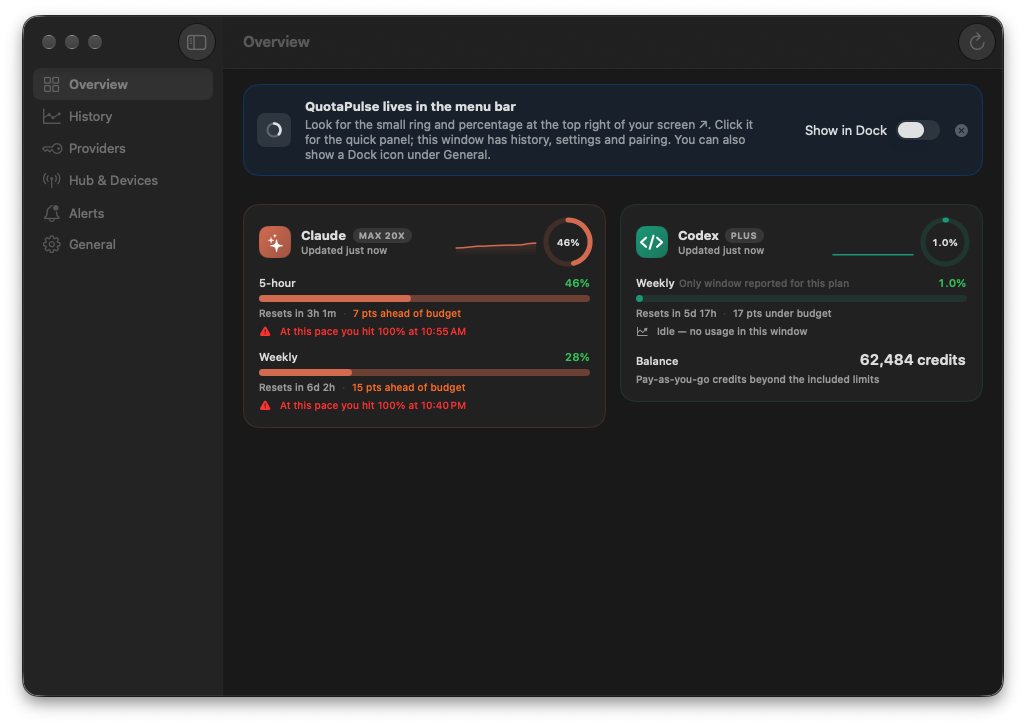
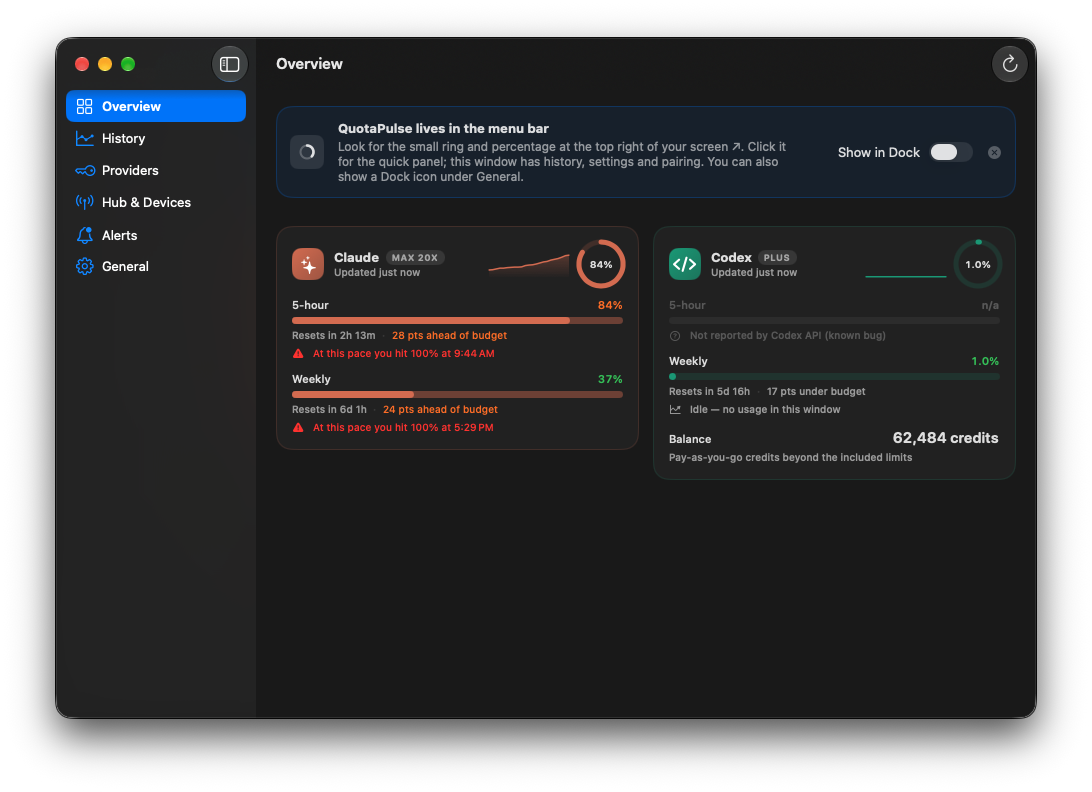
feat(codex): keep missing 5-hour window as .notReported placeholder (Plus/Team) or .notApplicable (Pro); forecasts only on reported windows

Changed region(s): [[0.0, 0.0, 0.9981, 1.0], [0.2495, 0.1212, 0.7485, 0.2424]]

diff --git a/QuotaCore/Sources/QuotaCore/Models/Models.swift b/QuotaCore/Sources/QuotaCore/Models/Models.swift
@@ -95,6 +95,16 @@ public enum ResetSemantics: String, Codable, Sendable, Hashable {
     case fixedCadence
 }
 
+/// Whether the provider actually returned numbers for this window.
+public enum WindowAvailability: String, Codable, Sendable, Hashable {
+    case reported
+    /// The API is known to omit this window right now (e.g. Codex's `secondary_window: null` bug on
+    /// Plus/Team plans); the row stays as a placeholder so the layout doesn't change when it comes back.
+    case notReported
+    /// The plan simply doesn't have this window (Codex Pro has no 5-hour window); hidden in every UI.
+    case notApplicable
+}
+
 /// What a window is doing right now.
 public enum WindowPhase: Sendable, Hashable {
     /// Counting down to `resetsAt` (already rolled forward for fixed-cadence windows).
@@ -117,9 +127,10 @@ public struct UsageWindow: Codable, Sendable, Identifiable, Hashable {
     /// Optional scoping note ("Opus", "Sonnet", "GPT-5.3 Spark"…).
     public var note: String?
     public var resetSemantics: ResetSemantics
+    public var availability: WindowAvailability
 
     public init(id: String, title: String, utilization: Double, resetsAt: Date?, duration: TimeInterval?, note: String? = nil,
-                resetSemantics: ResetSemantics = .fixedCadence) {
+                resetSemantics: ResetSemantics = .fixedCadence, availability: WindowAvailability = .reported) {
         self.id = id
         self.title = title
         self.utilization = min(100, max(0, utilization))
@@ -127,9 +138,12 @@ public struct UsageWindow: Codable, Sendable, Identifiable, Hashable {
         self.duration = duration
         self.note = note
         self.resetSemantics = resetSemantics
+        self.availability = availability
     }
 
-    enum CodingKeys: String, CodingKey { case id, title, utilization, resetsAt, duration, note, resetSemantics }
+    public var isReported: Bool { availability == .reported }
+
+    enum CodingKeys: String, CodingKey { case id, title, utilization, resetsAt, duration, note, resetSemantics, availability }
 
     public init(from decoder: Decoder) throws {
         let c = try decoder.container(keyedBy: CodingKeys.self)
@@ -140,6 +154,7 @@ public struct UsageWindow: Codable, Sendable, Identifiable, Hashable {
         duration = try c.decodeIfPresent(TimeInterval.self, forKey: .duration)
         note = try c.decodeIfPresent(String.self, forKey: .note)
         resetSemantics = try c.decodeIfPresent(ResetSemantics.self, forKey: .resetSemantics) ?? .fixedCadence
+        availability = try c.decodeIfPresent(WindowAvailability.self, forKey: .availability) ?? .reported
     }
 
     public var remaining: Double { max(0, 100 - utilization) }
@@ -323,8 +338,14 @@ public struct ProviderSnapshot: Codable, Sendable, Identifiable, Hashable {
     /// The window that is closest to running out (highest utilization), used for the menu bar label.
     public var primaryWindow: UsageWindow? {
         let now = Date()
-        return windows.max(by: { $0.currentUtilization(now: now) < $1.currentUtilization(now: now) })
+        return reportedWindows.max(by: { $0.currentUtilization(now: now) < $1.currentUtilization(now: now) })
     }
+
+    /// Windows that carry real numbers (placeholders excluded).
+    public var reportedWindows: [UsageWindow] { windows.filter(\.isReported) }
+
+    /// Windows the UI should draw: real ones plus `.notReported` placeholders, never `.notApplicable`.
+    public var displayWindows: [UsageWindow] { windows.filter { $0.availability != .notApplicable } }
 
     /// Head-line percentage: highest window utilization, or balance-derived "pressure" (nil when unknown).
     public var headlinePercent: Double? {
@@ -362,7 +383,7 @@ public struct QuotaSnapshot: Codable, Sendable, Hashable {
         var best: (ProviderSnapshot, UsageWindow)?
         let now = Date()
         for p in providers where p.status.isOK {
-            for w in p.windows {
+            for w in p.reportedWindows {
                 if best == nil || w.currentUtilization(now: now) > best!.1.currentUtilization(now: now) { best = (p, w) }
             }
         }

diff --git a/QuotaUI/Sources/QuotaUI/WidgetViews.swift b/QuotaUI/Sources/QuotaUI/WidgetViews.swift
@@ -108,13 +108,19 @@ public struct WidgetMediumView: View {
                                 Text(String(localized: "~\(Int(d.rounded()))d", bundle: .module)).font(.caption2).foregroundStyle(.secondary)
                             }
                         } else {
-                            ForEach(p.windows.prefix(2)) { w in
+                            ForEach(p.displayWindows.prefix(2)) { w in
                                 VStack(alignment: .leading, spacing: 2) {
-                                    UsageBar(percent: w.currentUtilization(), color: p.id.color, height: 5)
+                                    if w.isReported {
+                                        UsageBar(percent: w.currentUtilization(), color: p.id.color, height: 5)
+                                    } else {
+                                        Capsule().fill(.quaternary.opacity(0.5)).frame(height: 5)
+                                    }
                                     HStack {
                                         Text(w.title).font(.system(size: 9)).foregroundStyle(.secondary).lineLimit(1)
                                         Spacer(minLength: 2)
-                                        Text(QuotaFormat.percent(w.currentUtilization())).font(.system(size: 9, weight: .semibold).monospacedDigit())
+                                        Text(w.isReported ? QuotaFormat.percent(w.currentUtilization()) : Present.resetShort(w))
+                                            .font(.system(size: 9, weight: .semibold).monospacedDigit())
+                                            .foregroundStyle(w.isReported ? .primary : .tertiary)
                                     }
                                 }
                             }
@@ -172,7 +178,7 @@ public struct WidgetLargeView: View {
                             if let s = sparklines[p.id], s.count >= 2 { Sparkline(values: s, color: p.id.color).frame(width: 70, height: 18) }
                             StatusBadge(p.status)
                         }
-                        ForEach(p.windows.prefix(2)) { w in
+                        ForEach(p.displayWindows.prefix(2)) { w in
                             WindowRow(window: w, forecast: p.forecasts[w.id], color: p.id.color, compact: true)
                         }
                         if let b = p.balance, p.windows.isEmpty {

diff --git a/QuotaUI/Sources/QuotaUI/Components.swift b/QuotaUI/Sources/QuotaUI/Components.swift
@@ -200,9 +200,31 @@ public struct WindowRow: View {
     }
 
     public var body: some View {
+        switch window.availability {
+        case .reported: reportedBody
+        case .notReported: placeholderBody
+        case .notApplicable: EmptyView()
+        }
+    }
+
+    /// Grey placeholder row for a window the API currently omits (keeps the card's shape).
+    private var placeholderBody: some View {
+        VStack(alignment: .leading, spacing: compact ? 3 : 5) {
+            HStack(alignment: .firstTextBaseline, spacing: 4) {
+                Text(window.title).font(compact ? .caption : .subheadline).fontWeight(.medium).foregroundStyle(.tertiary)
+                Spacer(minLength: 4)
+                Text(L("n/a")).font(.system(compact ? .caption : .subheadline, design: .rounded).weight(.semibold)).foregroundStyle(.tertiary)
+            }
+            Capsule().fill(.quaternary.opacity(0.5)).frame(height: compact ? 5 : 7)
+            Label(Present.resetText(window, now: now), systemImage: "questionmark.circle")
+                .font(.caption2).foregroundStyle(.tertiary).lineLimit(1)
+        }
+    }
+
+    private var reportedBody: some View {
         let used = window.currentUtilization(now: now)
         let fresh: Bool = { if case .awaitingFirstUse = window.phase(now: now) { return true } else { return false } }()
-        VStack(alignment: .leading, spacing: compact ? 3 : 5) {
+        return VStack(alignment: .leading, spacing: compact ? 3 : 5) {
             HStack(alignment: .firstTextBaseline, spacing: 4) {
                 Text(window.title).font(compact ? .caption : .subheadline).fontWeight(.medium)
                 if let note = window.note, !compact, !window.title.contains(note) {
@@ -306,7 +328,7 @@ public struct ProviderCard: View {
             if snapshot.status.isError && snapshot.windows.isEmpty && snapshot.balance == nil {
                 errorBody
             } else {
-                ForEach(snapshot.windows) { w in
+                ForEach(snapshot.displayWindows) { w in
                     WindowRow(window: w, forecast: snapshot.forecasts[w.id], color: snapshot.id.color, compact: compact, now: now)
                 }
                 if let b = snapshot.balance {

diff --git a/QuotaCore/Sources/QuotaCore/Providers/CodexProvider.swift b/QuotaCore/Sources/QuotaCore/Providers/CodexProvider.swift
@@ -93,9 +93,21 @@ public struct CodexProvider: UsageProvider {
             }
         }
         guard !windows.isEmpty else { throw ProviderError.decoding("Codex usage response had no rate_limit windows") }
-        // Some plans report a single window (secondary_window: null); say so instead of leaving a gap.
-        if windows.count == 1, (root["rate_limit"] as? [String: Any])?["secondary_window"] is NSNull || (root["rate_limit"] as? [String: Any])?["secondary_window"] == nil {
-            windows[0].note = windows[0].note ?? "Only window reported for this plan"
+        // `secondary_window: null` means only one of the two windows arrived. Codex **Pro** genuinely has
+        // no 5-hour window (`.notApplicable`, hidden); on every other plan it is a known API bug
+        // (`.notReported`, grey placeholder). The row fills in by itself once both windows return.
+        let rateLimit = root["rate_limit"] as? [String: Any]
+        let secondaryMissing = rateLimit?["secondary_window"] == nil || rateLimit?["secondary_window"] is NSNull
+        let planType = (root["plan_type"] as? String)?.lowercased() ?? ""
+        if secondaryMissing, let only = windows.first(where: { $0.id == "primary" }) {
+            let haveWeekly = (only.duration ?? 0) > 6 * 3600
+            let availability: WindowAvailability = (planType == "pro" && haveWeekly) ? .notApplicable : .notReported
+            let placeholder = haveWeekly
+                ? UsageWindow(id: "five_hour_placeholder", title: "5-hour", utilization: 0, resetsAt: nil, duration: 5 * 3600, resetSemantics: .fixedCadence, availability: availability)
+                : UsageWindow(id: "weekly_placeholder", title: "Weekly", utilization: 0, resetsAt: nil, duration: 7 * 86400, resetSemantics: .fixedCadence, availability: availability)
+            if let idx = windows.firstIndex(where: { $0.id == "primary" }) {
+                windows.insert(placeholder, at: haveWeekly ? idx : idx + 1)
+            }
         }
         let plan = (root["plan_type"] as? String)?.replacingOccurrences(of: "_", with: " ").capitalized
         var balance: Balance?

diff --git a/QuotaCore/Tests/QuotaCoreTests/ForecastTests.swift b/QuotaCore/Tests/QuotaCoreTests/ForecastTests.swift
@@ -184,12 +184,28 @@ import Testing
          "credits":{"has_credits":true,"unlimited":false,"balance":"62484.4310550000"}}
         """
         let snap = try CodexProvider.parse(Data(json.utf8), now: now)
-        #expect(snap.windows.count == 1)
-        #expect(snap.windows[0].title == "Weekly")
-        #expect(snap.windows[0].note == "Only window reported for this plan")
-        #expect(snap.windows[0].resetSemantics == .fixedCadence)
+        // secondary_window: null (Codex API bug) → the 5-hour row stays as a .notReported placeholder.
+        #expect(snap.windows.map { $0.title } == ["5-hour", "Weekly"])
+        #expect(snap.windows[0].availability == .notReported)
+        #expect(snap.windows[0].duration == TimeInterval(18000))
+        #expect(snap.windows[1].availability == .reported)
+        #expect(snap.windows[1].note == nil)
+        #expect(snap.primaryWindow?.title == "Weekly")
+        #expect(snap.reportedWindows.count == 1)
+        #expect(snap.windows[1].resetSemantics == .fixedCadence)
         #expect(snap.balance?.isCredits == true)
         #expect(snap.balance?.formatted == "62,484 credits")
+        // Both windows present → no placeholder, normal display.
+        let full = try CodexProvider.parse(try fixture("codex_usage"), now: now)
+        #expect(full.windows.allSatisfy { $0.isReported })
+        let roundTrip = try JSON.decoder.decode(ProviderSnapshot.self, from: try JSON.encoder.encode(snap))
+        #expect(roundTrip.windows[0].availability == .notReported)
+        #expect(snap.displayWindows.count == 2)
+        // Codex Pro has no 5-hour window at all: placeholder is .notApplicable and hidden from display.
+        let pro = try CodexProvider.parse(Data(json.replacingOccurrences(of: "\"plus\"", with: "\"pro\"").utf8), now: now)
+        #expect(pro.windows.first?.availability == .notApplicable)
+        #expect(pro.displayWindows.map { $0.title } == ["Weekly"])
+        #expect(pro.reportedWindows.count == 1)
     }
 
     @Test func claudeLimitsKindsAreNotDuplicated() throws {

diff --git a/QuotaUI/Sources/QuotaUI/Theme.swift b/QuotaUI/Sources/QuotaUI/Theme.swift
@@ -82,6 +82,7 @@ public enum QPDesign {
 
 public enum Present {
     public static func resetText(_ window: UsageWindow, now: Date = Date()) -> String {
+        if !window.isReported { return L("Not reported by Codex API (known bug)") }
         switch window.phase(now: now) {
         case let .active(r):
             return String(localized: "Resets in \(QuotaFormat.countdown(to: r, from: now))", bundle: .module)
@@ -94,10 +95,11 @@ public enum Present {
 
     /// Few-character variant for widgets / complications.
     public static func resetShort(_ window: UsageWindow, now: Date = Date()) -> String {
+        if !window.isReported { return L("n/a") }
         switch window.phase(now: now) {
-        case let .active(r): QuotaFormat.countdown(to: r, from: now)
-        case .awaitingFirstUse: L("Fresh")
-        case .unknown: "—"
+        case let .active(r): return QuotaFormat.countdown(to: r, from: now)
+        case .awaitingFirstUse: return L("Fresh")
+        case .unknown: return "—"
         }
     }
 

diff --git a/macOS/App/MainWindow.swift b/macOS/App/MainWindow.swift
@@ -184,11 +184,11 @@ struct ForecastTable: View {
                     Text(L("Confidence")).foregroundStyle(.secondary)
                 }
                 .font(.caption)
-                ForEach(provider.windows) { w in
+                ForEach(provider.displayWindows) { w in
                     let f = provider.forecasts[w.id]
                     GridRow {
-                        Text(w.title)
-                        Text(QuotaFormat.percent(w.utilization)).monospacedDigit()
+                        Text(w.title).foregroundStyle(w.isReported ? .primary : .tertiary)
+                        Text(w.isReported ? QuotaFormat.percent(w.utilization) : L("n/a")).monospacedDigit()
                         Text(f.map { QuotaFormat.rate($0.rate) } ?? "—").monospacedDigit()
                         Text(f?.projectedAtReset.map { QuotaFormat.percent($0) } ?? "—").monospacedDigit()
                         Text(confidence(f))

diff --git a/QuotaCore/Sources/QuotaCore/Store/QuotaEngine.swift b/QuotaCore/Sources/QuotaCore/Store/QuotaEngine.swift
@@ -125,7 +125,7 @@ public actor QuotaEngine {
                 switch fresh.status {
                 case .ok:
                     gate.recordSuccess(id)
-                    for w in fresh.windows {
+                    for w in fresh.reportedWindows {
                         newSamples.append(Sample(provider: id, window: w.id, at: now, value: w.utilization, resetsAt: w.resetsAt))
                     }
                     if let b = fresh.balance {
@@ -160,7 +160,7 @@ public actor QuotaEngine {
         // Forecasts
         for i in merged.indices {
             var forecasts: [String: Forecast] = [:]
-            for w in merged[i].windows {
+            for w in merged[i].reportedWindows {
                 let hist = await samples.samples(provider: merged[i].id, window: w.id)
                 forecasts[w.id] = ForecastEngine.forecast(window: w, samples: hist, now: now)
             }

diff --git a/watchOS/App/WatchViews.swift b/watchOS/App/WatchViews.swift
@@ -71,7 +71,7 @@ struct WatchDetailView: View {
             if let p = model.snapshot.provider(provider) {
                 VStack(alignment: .leading, spacing: 10) {
                     HStack { ProviderGlyph(p.id, size: 22); Text(p.id.displayName).font(.headline); if let plan = p.account?.plan { PlanBadge(plan) } }
-                    ForEach(p.windows) { w in
+                    ForEach(p.displayWindows) { w in
                         WindowRow(window: w, forecast: p.forecasts[w.id], color: p.id.color, compact: true, now: now)
                         if let t = Present.forecastText(window: w, forecast: p.forecasts[w.id], now: now) {
                             Text(t).font(.caption2).foregroundStyle(p.forecasts[w.id]?.willExhaustBeforeReset == true ? UsageLevel.critical.color : .secondary)

diff --git a/CHANGELOG.md b/CHANGELOG.md
@@ -8,7 +8,7 @@ The format is based on [Keep a Changelog](https://keepachangelog.com/en/1.1.0/),
 ### Added
 - Reset semantics per provider (`UsageWindow.resetSemantics`): Claude windows roll from the first request and read "Fresh · next window starts on first request" once expired; Codex windows roll forward by their fixed cadence. Forecast, pace and countdowns follow the semantics (6 new tests).
 - macOS: first launch opens the main window with a dismissible "QuotaPulse lives in the menu bar" tip; "Show in Dock" toggle (General); `quotapulse://open?section=…` deep links.
-- Codex: credits balance shown as credits (not dollars); single-window plans are labelled instead of leaving a gap. Claude `limits[]` kinds `session` / `weekly_all` / `weekly_scoped` parsed without duplicates.
+- Codex: credits balance shown as credits (not dollars). When `secondary_window` is null the missing 5-hour row is kept as a grey `.notReported` placeholder ("Not reported by Codex API (known bug)") on Plus/Team/Business and fills in automatically once the API returns it; on Pro, which has no 5-hour window, it is `.notApplicable` and hidden. Forecast and pace only run on reported windows. Claude `limits[]` kinds `session` / `weekly_all` / `weekly_scoped` parsed without duplicates.
 - Simulator automation hooks (`QUOTAPULSE_PAIRING_URL`, `QUOTAPULSE_START_ROUTE=provider/<id>|settings`) and a `QuotaPulseUITests` target that adds the widget to the simulator home screen through the real gallery.
 - Verified on iPhone 17 / iOS 27.0 and iPhone 15 Plus / iOS 26.5 + 27.0 (393 pt and 430 pt widths, Dynamic Type XXL, dark mode).
 

diff --git a/docs/research.md b/docs/research.md
@@ -57,6 +57,7 @@
 |---|---|---|
 | 5h 窗口 `resets_at` | `2026-10-16T15:29:59.89Z`（整个白天不变；样本 11:41Z→12:18Z 期间固定）。窗口始于 10:30Z 附近的首条请求，值对齐到 **:00/:30 半小时边界** | 本账号 `secondary_window: null`，只有 `primary_window`：`limit_window_seconds=604800`、`reset_at=1792649646`（2026-10-22T06:14:06Z，**非整点**，固定周期滚动） |
 | 周窗口 | `2026-10-22T14:59:59.89Z` = 上周首次请求后 7 天，同样对齐半小时 | 同上（单一窗口） |
+| 单窗口 | `plan_type == "pro"` → 只有周窗口是正常的（`.notApplicable`，UI 隐藏）；其他套餐出现 `secondary_window: null` 是 Codex 服务端已知 bug（`.notReported`，灰色占位 "Not reported by Codex API (known bug)"，API 恢复后自动显示） | |
 | 到期行为 | 额度清零，**不开新窗**；下次请求才开新窗，届时 `resets_at` 变为新值（utilization 回落 → 新周期） | 额度与周期一起重置，`reset_at` 按周期长度前推 |
 | 新字段 | `five_hour.limit_dollars/used_dollars/remaining_dollars/locked_reason`（均 null）；`limits[]` 含 `kind: session / weekly_all / weekly_scoped`（后者 15%，无 `scope.model`） | `credits.balance` 是 **credits 数量不是美元**（62484.43），`approx_local_messages` 区间、`rate_limit_reset_credits`、`model_usage` |
 
